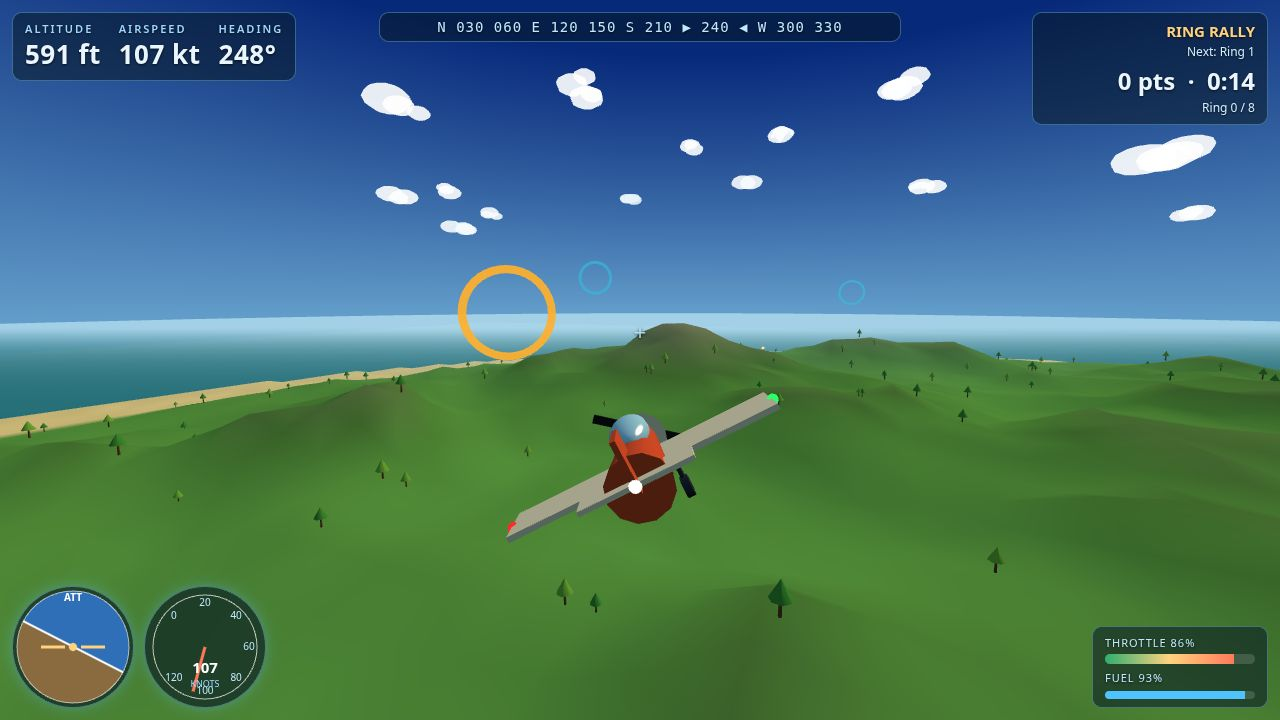
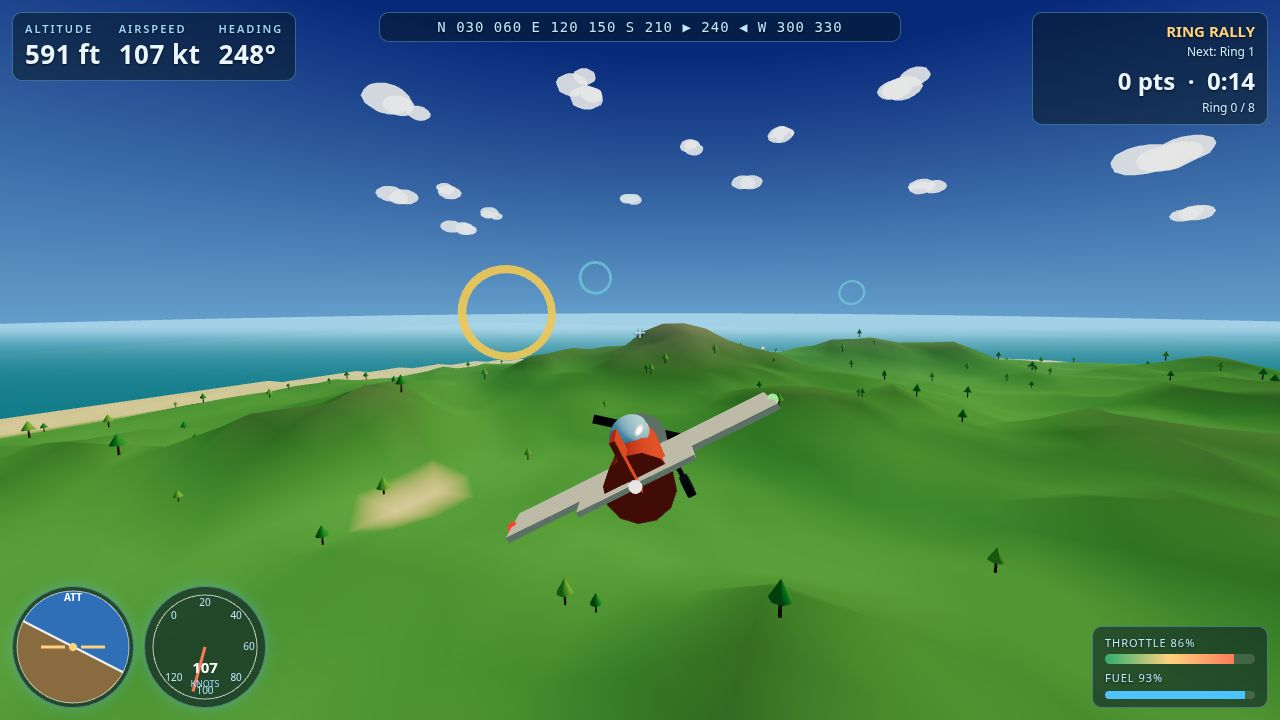
v3: landing needs a real touchdown; live title HUD; wall-clock chase camera; clear final approach; ACES grade; ring-pass burst
- Landing Challenge: the Final Gate no longer wins the mission by itself.
  The old gate (620 m out at 150 m) was unflyable — no descent respecting
  the 6 m/s touchdown sink limit could reach the 520 m strip. Gate moved to
  a real final-approach fix (660 m out at 80 m), the approach corridor west
  of the threshold is flattened into a valley, and the win comes only from
  a judged touchdown (time bonus moved there). Verified: scripted glidepath
  touches down at 2.5 m/s sink, 44 m/s, bank 0, wins, 1360 pts.
- Title screen: HUD now updates while the menu is up, so the instruments
  read 15 ft / 0 kt / 090 with lit dials instead of dead 0/0/000.
- Chase camera: smoothing now uses the real frame delta, not the fixed
  sim step, so on a slow machine the plane no longer shrinks to a speck
  100 m ahead of its own camera. Verified at 3.2 fps in headless Chromium.
- Graphics: ACES filmic tone mapping (exposure 1.15) and an expanding
  shockwave burst when a ring is flown through.
- Screenshots re-shot and visually verified, all four distinct renders.

diff --git a/game/src/render.js b/game/src/render.js
@@ -12,6 +12,12 @@ export function createRenderer(canvas, seed) {
   const renderer = new THREE.WebGLRenderer({ canvas, antialias: true });
   renderer.setPixelRatio(Math.min(window.devicePixelRatio || 1, 2));
   renderer.setSize(window.innerWidth, window.innerHeight);
+  // ACES filmic tone mapping: the late-afternoon sun gets a deeper sky and
+  // richer sea and grass instead of the flat Lambert wash. The sky dome is a
+  // raw ShaderMaterial (untone-mapped), so exposure is nudged up to keep the
+  // lit terrain in balance with it.
+  renderer.toneMapping = THREE.ACESFilmicToneMapping;
+  renderer.toneMappingExposure = 1.15;
 
   const scene = new THREE.Scene();
   scene.background = new THREE.Color(PALETTE.skyTop);
@@ -85,7 +91,25 @@ export function createRenderer(canvas, seed) {
     return course;
   }
 
-  function updateRings(state, time) {
+  // Ring-pass burst: an expanding shockwave hoop that blooms out of the ring
+  // just flown through and fades in under a second. Event-driven, tied to the
+  // one moment the pilot wants feedback for — a ring passing with no flash
+  // reads as a miss.
+  const bursts = [];
+  let prevRingsDone = 0;
+  function updateRings(state, time, dt) {
+    if (state.ringsDone > prevRingsDone && ringMeshes.length) {
+      const passed = ringMeshes[Math.min(prevRingsDone, ringMeshes.length - 1)];
+      const burst = new THREE.Mesh(
+        new THREE.TorusGeometry(24, 2.2, 10, 40),
+        new THREE.MeshBasicMaterial({ color: PALETTE.ringDone, transparent: true, opacity: 0.95 }),
+      );
+      burst.position.copy(passed.position);
+      burst.quaternion.copy(passed.quaternion);
+      ringGroup.add(burst);
+      bursts.push({ mesh: burst, age: 0 });
+    }
+    prevRingsDone = state.ringsDone;
     ringMeshes.forEach((hoop, index) => {
       const done = index < state.ringsDone;
       const next = index === state.ringsDone;
@@ -96,6 +120,14 @@ export function createRenderer(canvas, seed) {
       const s = next ? 1 + Math.sin(time * 3) * 0.04 : 1;
       hoop.scale.setScalar(s);
     });
+    for (let i = bursts.length - 1; i >= 0; i -= 1) {
+      const b = bursts[i];
+      b.age += dt;
+      const k = b.age / 0.7;
+      if (k >= 1) { ringGroup.remove(b.mesh); b.mesh.geometry.dispose(); b.mesh.material.dispose(); bursts.splice(i, 1); continue; }
+      b.mesh.scale.setScalar(1 + k * 1.4);
+      b.mesh.material.opacity = 0.95 * (1 - k);
+    }
   }
 
   // Chase camera: behind and above the tail, smoothed, widening with speed.
@@ -145,7 +177,7 @@ export function createRenderer(canvas, seed) {
 
   function draw(state, time, dt) {
     updateCamera(state, dt);
-    updateRings(state, time);
+    updateRings(state, time, dt);
     renderer.render(scene, camera);
   }
 

diff --git a/game/src/terrain.js b/game/src/terrain.js
@@ -20,6 +20,20 @@ export function makeIsland(seed) {
     const d = Math.hypot(dx, dz);
     return Math.max(0, 1 - d / 300);
   }
+  // Final-approach corridor: keep the glidepath west of Runway 09 clear, so a
+  // landing flown through the gate meets flat ground, not a hillside. The
+  // hills right before the threshold peak near 80 m, and the touchdown sink
+  // limit (6 m/s) leaves no descent that clears them — so the corridor is
+  // fully flat from 350 m west of the threshold to the strip, fading back to
+  // the hills over the next 250 m west and 90 m either side of the centreline.
+  // It reads as the flat valley the airfield was built in.
+  function approachFalloff(x, z) {
+    const west = RUNWAY.x - RUNWAY.length / 2 - x;
+    if (west < 0) return 0;
+    const along = west <= 350 ? 1 : Math.max(0, 1 - (west - 350) / 250);
+    const across = Math.max(0, 1 - Math.abs(z - RUNWAY.z) / 90);
+    return along * across;
+  }
   function groundHeight(x, z) {
     const r = Math.hypot(x, z) / HALF;
     if (r >= 1.15) return -6; // open sea floor, far out
@@ -33,8 +47,10 @@ export function makeIsland(seed) {
     h += ridge * ridge * 70;
     // Beach ring where the land meets the sea.
     if (r > 0.86 && h < 9) h = Math.max(h, 3.2);
-    // Flatten the airfield so the runway sits on level ground.
-    const flat = runwayFalloff(x, z);
+    // Flatten the airfield so the runway sits on level ground, and the final
+    // approach corridor with it — the gate is the start of the landing, not
+    // a hillside to crash into on the way down.
+    const flat = Math.max(runwayFalloff(x, z), approachFalloff(x, z));
     return h * (1 - flat) + 2.2 * flat;
   }
   return { groundHeight, noise };
@@ -53,7 +69,11 @@ export function ringCourse(missionId) {
     ];
   }
   if (missionId === 'landing') {
-    return [{ x: RUNWAY.x - 620, z: RUNWAY.z, y: 150, name: 'Final Gate' }];
+    // Final Gate: 660 m west of the threshold at 80 m — a real final-approach
+    // fix. The old gate (620 m out at 150 m) was unflyable: no descent that
+    // respected the 6 m/s touchdown sink limit could reach the 520 m strip
+    // in time, so the mission could only be won by flying through the hoop.
+    return [{ x: RUNWAY.x - 920, z: RUNWAY.z, y: 80, name: 'Final Gate' }];
   }
   return [
     { x: 180, z: 420, y: 180, name: 'Ring 1' },

diff --git a/game/src/flight.js b/game/src/flight.js
@@ -122,7 +122,10 @@ export function createFlight(island, missionId) {
           state.message = sinkRate < 3 ? 'Butter-smooth touchdown!' : 'Down — a firm one, but she is in one piece.';
           state.messageTime = 5;
           events |= EVENT_LANDED;
-          if (state.missionId === 'landing') { state.won = true; events |= EVENT_WIN; }
+          if (state.missionId === 'landing') {
+            state.won = true; events |= EVENT_WIN;
+            state.score += Math.max(0, Math.round(1000 - state.time * 2));
+          }
         } else {
           return crash(overRunway ? 'You ran off the runway.' : 'You hit the ground.');
         }
@@ -167,12 +170,22 @@ export function createFlight(island, missionId) {
         state.messageTime = 3;
         events |= EVENT_RING;
         if (state.ringsDone >= course.length) {
-          state.won = true; events |= EVENT_WIN;
-          state.score += Math.max(0, Math.round(1000 - state.time * 2));
-          state.message = state.missionId === 'tour'
-            ? 'Tour complete! Now bring her home to Runway 09.'
-            : 'Course complete! Fly home to Runway 09 to finish.';
-          state.messageTime = 6;
+          if (state.missionId === 'landing') {
+            // The gate is a guide, not the finish: a landing challenge is won
+            // by a real touchdown on the strip, never by flying through a hoop
+            // at 150 m. Clear the course (the autopilot then aims at the
+            // runway threshold) and wait for the touchdown branch above.
+            state.ring = null;
+            state.message = 'Through the gate — now set her down on Runway 09.';
+            state.messageTime = 5;
+          } else {
+            state.won = true; events |= EVENT_WIN;
+            state.score += Math.max(0, Math.round(1000 - state.time * 2));
+            state.message = state.missionId === 'tour'
+              ? 'Tour complete! Now bring her home to Runway 09.'
+              : 'Course complete! Fly home to Runway 09 to finish.';
+            state.messageTime = 6;
+          }
         } else {
           state.ring = course[state.ringsDone];
         }

diff --git a/game/src/main.js b/game/src/main.js
@@ -134,8 +134,12 @@ function runGame() {
 
   function frame(now) {
     requestAnimationFrame(frame);
-    accumulator += Math.min((now - last) / 1000, MAX_FRAME);
+    // The real frame time, not STEP: the camera smoothing in draw() must
+    // converge in wall-clock time, or on a slow machine the plane outruns
+    // its own chase camera and shrinks to a speck. At 60 fps this equals STEP.
+    const frameDt = Math.min((now - last) / 1000, MAX_FRAME);
     last = now;
+    accumulator += frameDt;
     handleActions();
     if (screen === 'play') {
       while (accumulator >= STEP && screen === 'play') { step(); accumulator -= STEP; }
@@ -143,12 +147,15 @@ function runGame() {
       accumulator = 0;
     }
     if (screen !== 'title') {
-      renderer.draw(flight.state, flight.state.time, STEP);
+      renderer.draw(flight.state, flight.state.time, frameDt);
       hud.update(flight.state);
     } else {
-      // Title screen: the island and the parked plane, camera slowly orbiting.
+      // Title screen: the parked plane on the strip, town behind it. The HUD
+      // updates here too, or the instruments sit dead at 0 ft / 0 kt / 000°
+      // with black dials until the first mission starts.
       flight.state.time += STEP;
-      renderer.draw(flight.state, flight.state.time, STEP);
+      renderer.draw(flight.state, flight.state.time, frameDt);
+      hud.update(flight.state);
     }
   }
 

diff --git a/game/src/shots.js b/game/src/shots.js
@@ -24,9 +24,10 @@ export function stageShot(name, flight, renderer) {
   renderer.setCameraMode(scene.camera);
   if (name === 'landing') {
     // Stage the final approach directly: on the extended centreline, west of the
-    // threshold, already through the gate and lined up on Runway 09.
+    // threshold, already through the gate and lined up on Runway 09. The gate
+    // sits at 80 m, so the staged approach flies at 100 m, on the glidepath.
     const s = flight.state;
-    s.x = -120; s.z = 620; s.y = 170;
+    s.x = -120; s.z = 620; s.y = 100;
     s.heading = Math.PI / 2; s.pitch = -0.06; s.bank = 0;
     s.speed = 50; s.throttle = 0.6; s.onGround = false; s.airborne = true;
     s.ringsDone = 1; s.ring = null;
